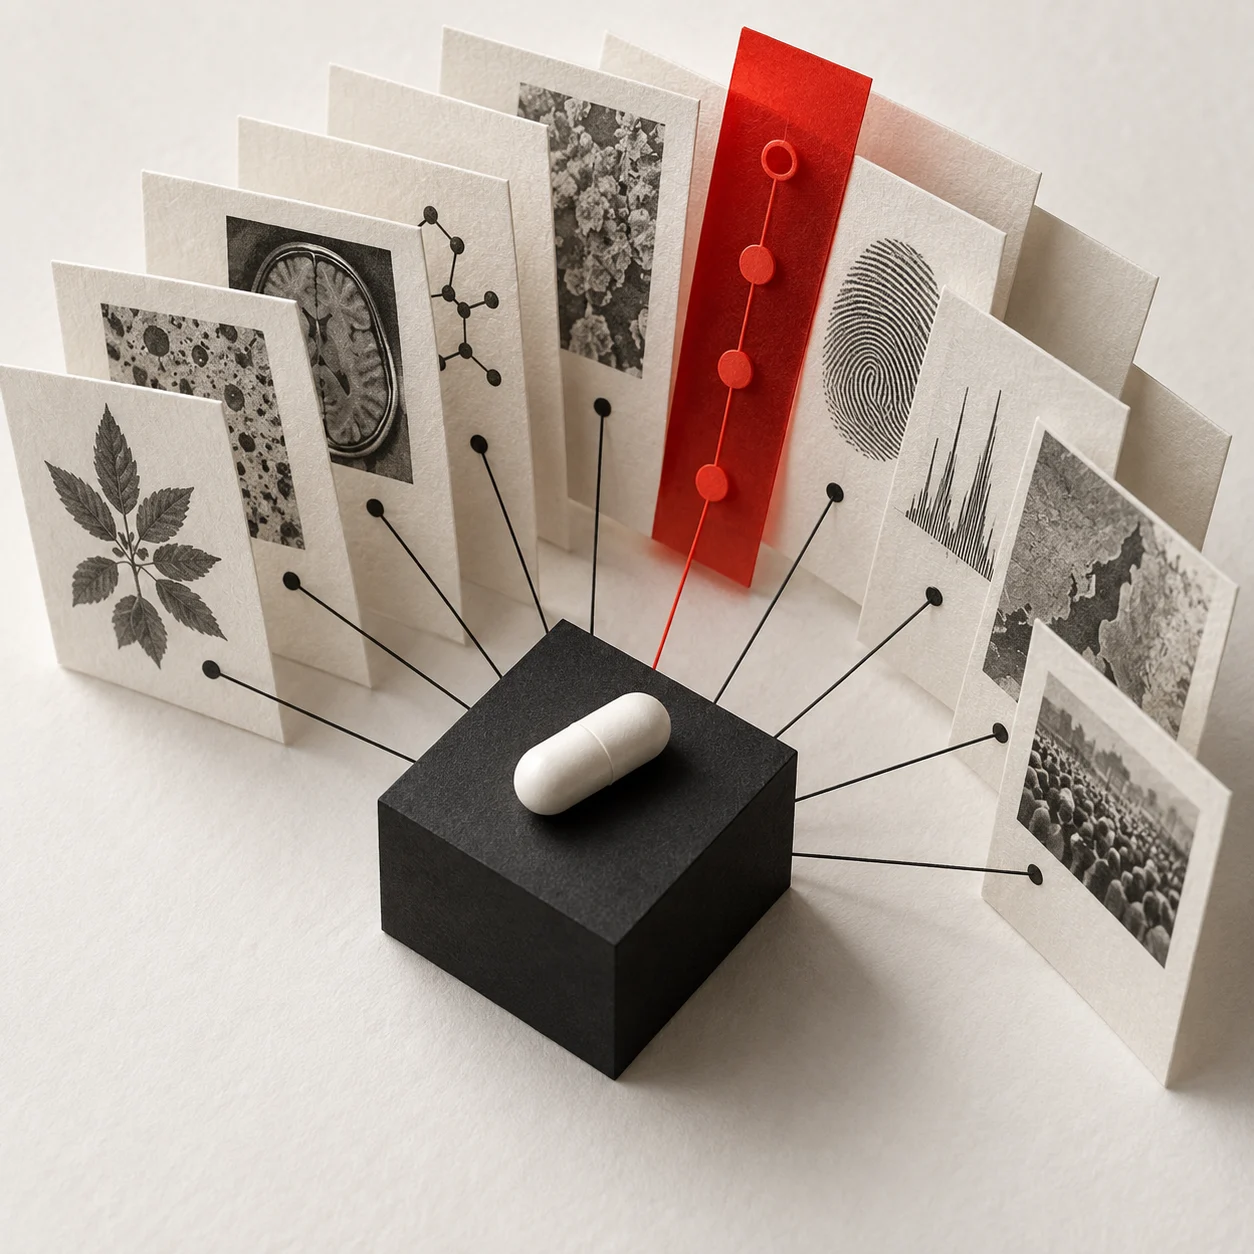
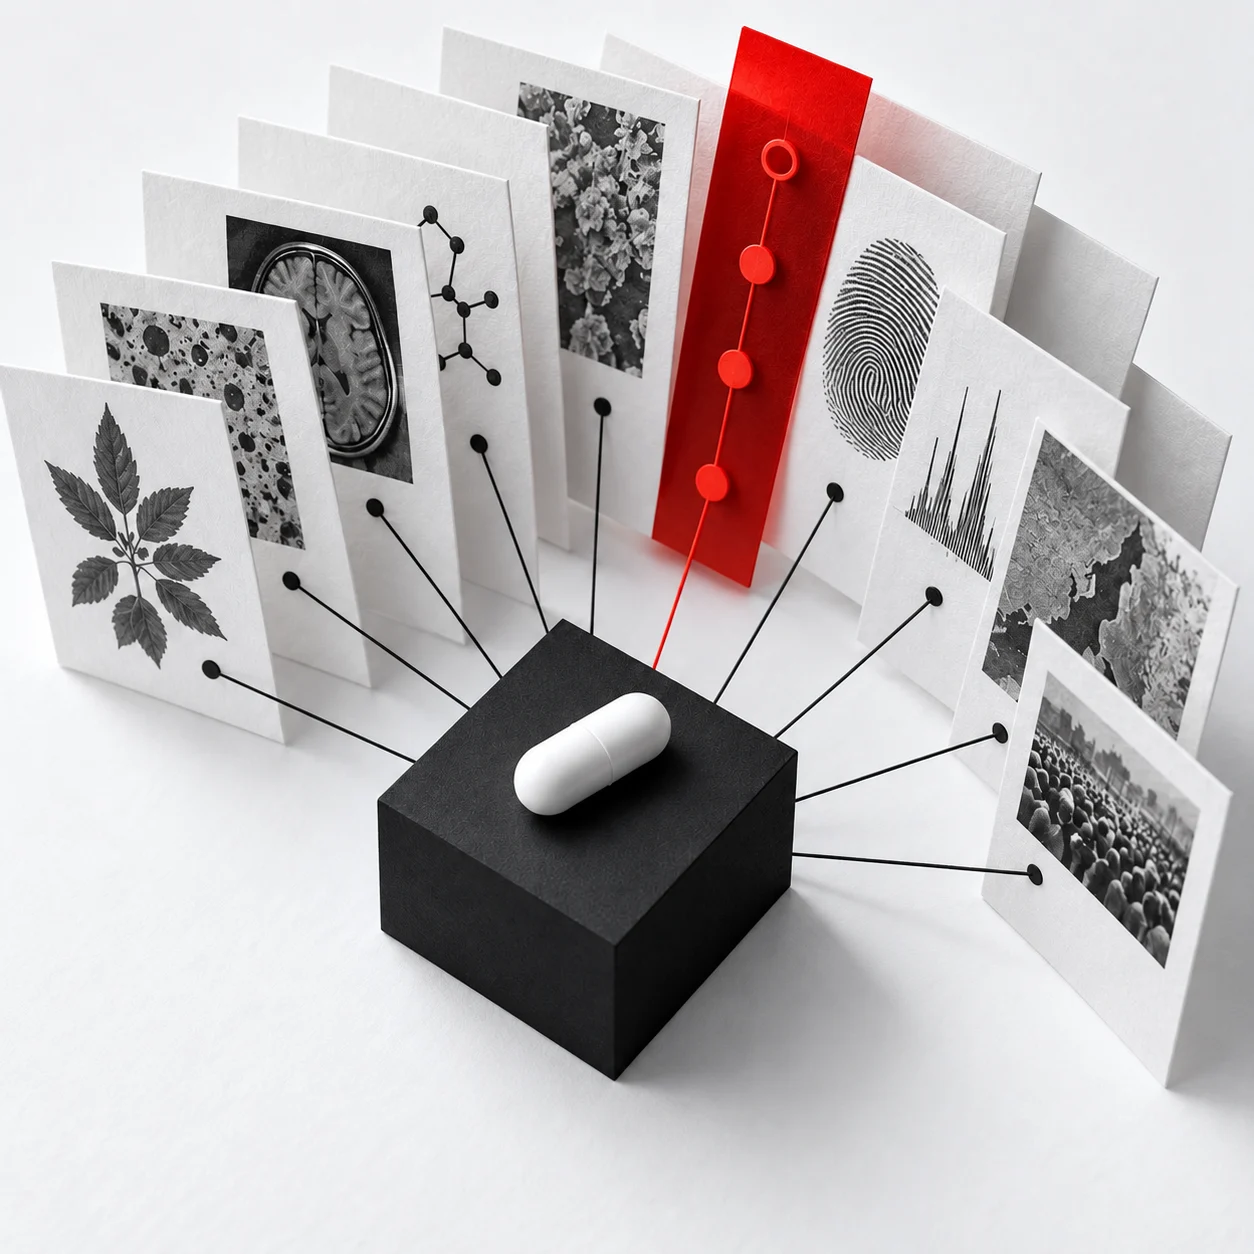
Polish project artwork palette and feature spacing (#81)

diff --git a/src/lib/content.ts b/src/lib/content.ts
@@ -64,7 +64,7 @@ export const projects: readonly Project[] = [
     id: "peel",
     image: {
       src: "/images/projects/editorial/peel-study.webp",
-      alt: "Conceptual Peel study with a white capsule, connected evidence cards, and a translucent red strip.",
+      alt: "Peel artwork with a white capsule, connected evidence cards, and a translucent red strip.",
     },
     name: "Peel",
     discipline: "AI evidence retrieval",
@@ -85,7 +85,7 @@ export const projects: readonly Project[] = [
     id: "turfiq",
     image: {
       src: "/images/projects/editorial/turfiq-study.webp",
-      alt: "Conceptual TurfIQ study with layered topographic terrain, a soil sensor, and a red maintenance route.",
+      alt: "TurfIQ artwork with layered topographic terrain, a soil sensor, and a red maintenance route.",
     },
     name: "TurfIQ",
     discipline: "Field operations",
@@ -108,7 +108,7 @@ export const projects: readonly Project[] = [
     year: "2026",
     image: {
       src: "/images/projects/editorial/greenchain-study.webp",
-      alt: "Conceptual GreenChain study with black paper nodes, taut threads, white platforms, and one red route through the network.",
+      alt: "GreenChain artwork with black paper nodes, taut threads, white platforms, and one red route through the network.",
     },
     summary:
       "A supply-chain sustainability prototype that researches suppliers, estimates emissions, and maps their relationships.",
@@ -128,7 +128,7 @@ export const projects: readonly Project[] = [
     year: "2026",
     image: {
       src: "/images/projects/editorial/architec-study.webp",
-      alt: "Conceptual Architec study with layered architectural planes, a black building volume, and a red translucent energy plane.",
+      alt: "Architec artwork with layered architectural planes, a black building volume, and a red translucent energy plane.",
     },
     summary:
       "An energy-audit prototype that turns commercial-building utility bills into ranked upgrades, projected savings, and payback estimates.",
@@ -144,7 +144,7 @@ export const projects: readonly Project[] = [
     id: "arrival",
     image: {
       src: "/images/projects/editorial/arrival-study.webp",
-      alt: "Conceptual Arrival study with financial documents passing through a translucent red gateway toward a black credit pass.",
+      alt: "Arrival artwork with financial documents passing through a translucent red gateway toward a black credit pass.",
     },
     name: "Arrival",
     discipline: "Financial access",
@@ -167,7 +167,7 @@ export const projects: readonly Project[] = [
     year: "2025",
     image: {
       src: "/images/projects/editorial/terrablade-study.webp",
-      alt: "Conceptual TerraBlade study with a pale clay slab, black guide rails, and a broad red pulling grip.",
+      alt: "TerraBlade artwork with a pale clay slab, black guide rails, and a broad red pulling grip.",
     },
     summary:
       "An accessible clay slab-forming device built with Envision Unlimited that halved forming time for artists with physical disabilities.",
@@ -182,7 +182,7 @@ export const projects: readonly Project[] = [
     year: "2026",
     image: {
       src: "/images/projects/editorial/vox-vera-study.webp",
-      alt: "Conceptual Vox Vera study with black paper channels and white tokens converging on a red crop frame.",
+      alt: "Vox Vera artwork with black paper channels and white tokens converging on a red crop frame.",
     },
     summary:
       "A Lambda Strategy client project recommending acquisition channels and audience segments for Vox Vera.",

diff --git a/src/styles/spreads/projects.css b/src/styles/spreads/projects.css
@@ -87,13 +87,6 @@
   letter-spacing: 0.08em;
 }
 
-.proj-count__caption {
-  margin-top: 2cqh;
-  color: var(--paper);
-  opacity: 0.65;
-  font-size: max(11px, 1.35cqw);
-}
-
 /* ————— p.9 · the index ————— */
 
 .proj-index {
@@ -255,16 +248,12 @@
 }
 
 .proj-tech__mark {
-  width: 1.08em;
-  height: 1.08em;
-  flex: 0 0 1.08em;
+  --mark-size: clamp(12px, 1.6cqw, 14px);
+  width: var(--mark-size);
+  height: var(--mark-size);
+  flex: 0 0 var(--mark-size);
   display: grid;
   place-items: center;
-  color: var(--ink-2);
-  font-family: var(--font-mono);
-  font-size: 1em;
-  font-weight: 700;
-  letter-spacing: -0.08em;
   line-height: 1;
 }
 
@@ -274,6 +263,14 @@
   height: 100%;
   object-fit: contain;
   filter: brightness(0);
+  transform: scale(var(--mark-scale, 1));
+}
+
+/* Dense silhouettes need less ink than open line marks at the same size.
+   Optical adjustments stay inside a fixed box, so labels always align. */
+.proj-tech__mark:is([data-technology="TypeScript"], [data-technology="Next.js"],
+  [data-technology="Mapbox"], [data-technology="FastAPI"]) {
+  --mark-scale: 0.88;
 }
 
 .proj-index__recognition {
@@ -342,7 +339,7 @@
   margin-left: -8cqw;
   width: calc(100% + 8cqw);
   border-left: 0;
-  aspect-ratio: 16 / 10;
+  height: 28cqh;
 }
 
 /* p.11, mirrored: the plate sits low and runs off the other fore-edge. */
@@ -358,16 +355,6 @@
   width: 100%;
   height: 100%;
   object-fit: cover;
-}
-
-.proj-feature__caption {
-  position: absolute;
-  bottom: 0;
-  left: 0;
-  padding: 0.5em 0.8em;
-  background: var(--paper);
-  color: var(--ink-2);
-  font-size: max(11px, 1.35cqw);
 }
 
 .proj-feature__head {
@@ -456,7 +443,11 @@
   margin-top: auto;
 }
 
+/* Keep the scroll viewport itself clear of both running head and folio. */
 .proj-feature:is([data-mode="book"], [data-mode="single"]) {
+  inset-block-start: max(8cqh, calc(var(--page-pad) * 0.45 + 28px));
+  inset-block-end: max(8cqh, calc(var(--page-pad) * 0.45 + 32px));
+  padding-block: 0 2cqh;
   overflow-y: auto;
   overscroll-behavior: contain;
   scrollbar-width: thin;

diff --git a/src/components/ProjectTechnologyList.tsx b/src/components/ProjectTechnologyList.tsx
@@ -19,8 +19,8 @@ export function ProjectTechnologyList({
         return (
           <li key={item} className="proj-tech__item mono-label">
             {logo && (
-              <span className="proj-tech__mark" aria-hidden>
-                <img src={logo} alt="" decoding="async" />
+              <span className="proj-tech__mark" data-technology={item} aria-hidden>
+                <img src={logo} alt="" width={24} height={24} decoding="async" />
               </span>
             )}
             <span>{item}</span>

diff --git a/src/spreads/ProjectWell.tsx b/src/spreads/ProjectWell.tsx
@@ -99,9 +99,6 @@ function Plate({ project }: { project: Project }) {
         loading="lazy"
         decoding="async"
       />
-      <figcaption className="proj-feature__caption mono-label">
-        Conceptual study
-      </figcaption>
     </figure>
   );
 }

diff --git a/src/spreads/ProjectsOpener.tsx b/src/spreads/ProjectsOpener.tsx
@@ -48,9 +48,6 @@ function Count() {
           </li>
         ))}
       </ol>
-      <p className="proj-count__caption mono-label">
-        Images are conceptual studies.
-      </p>
     </div>
   );
 }
